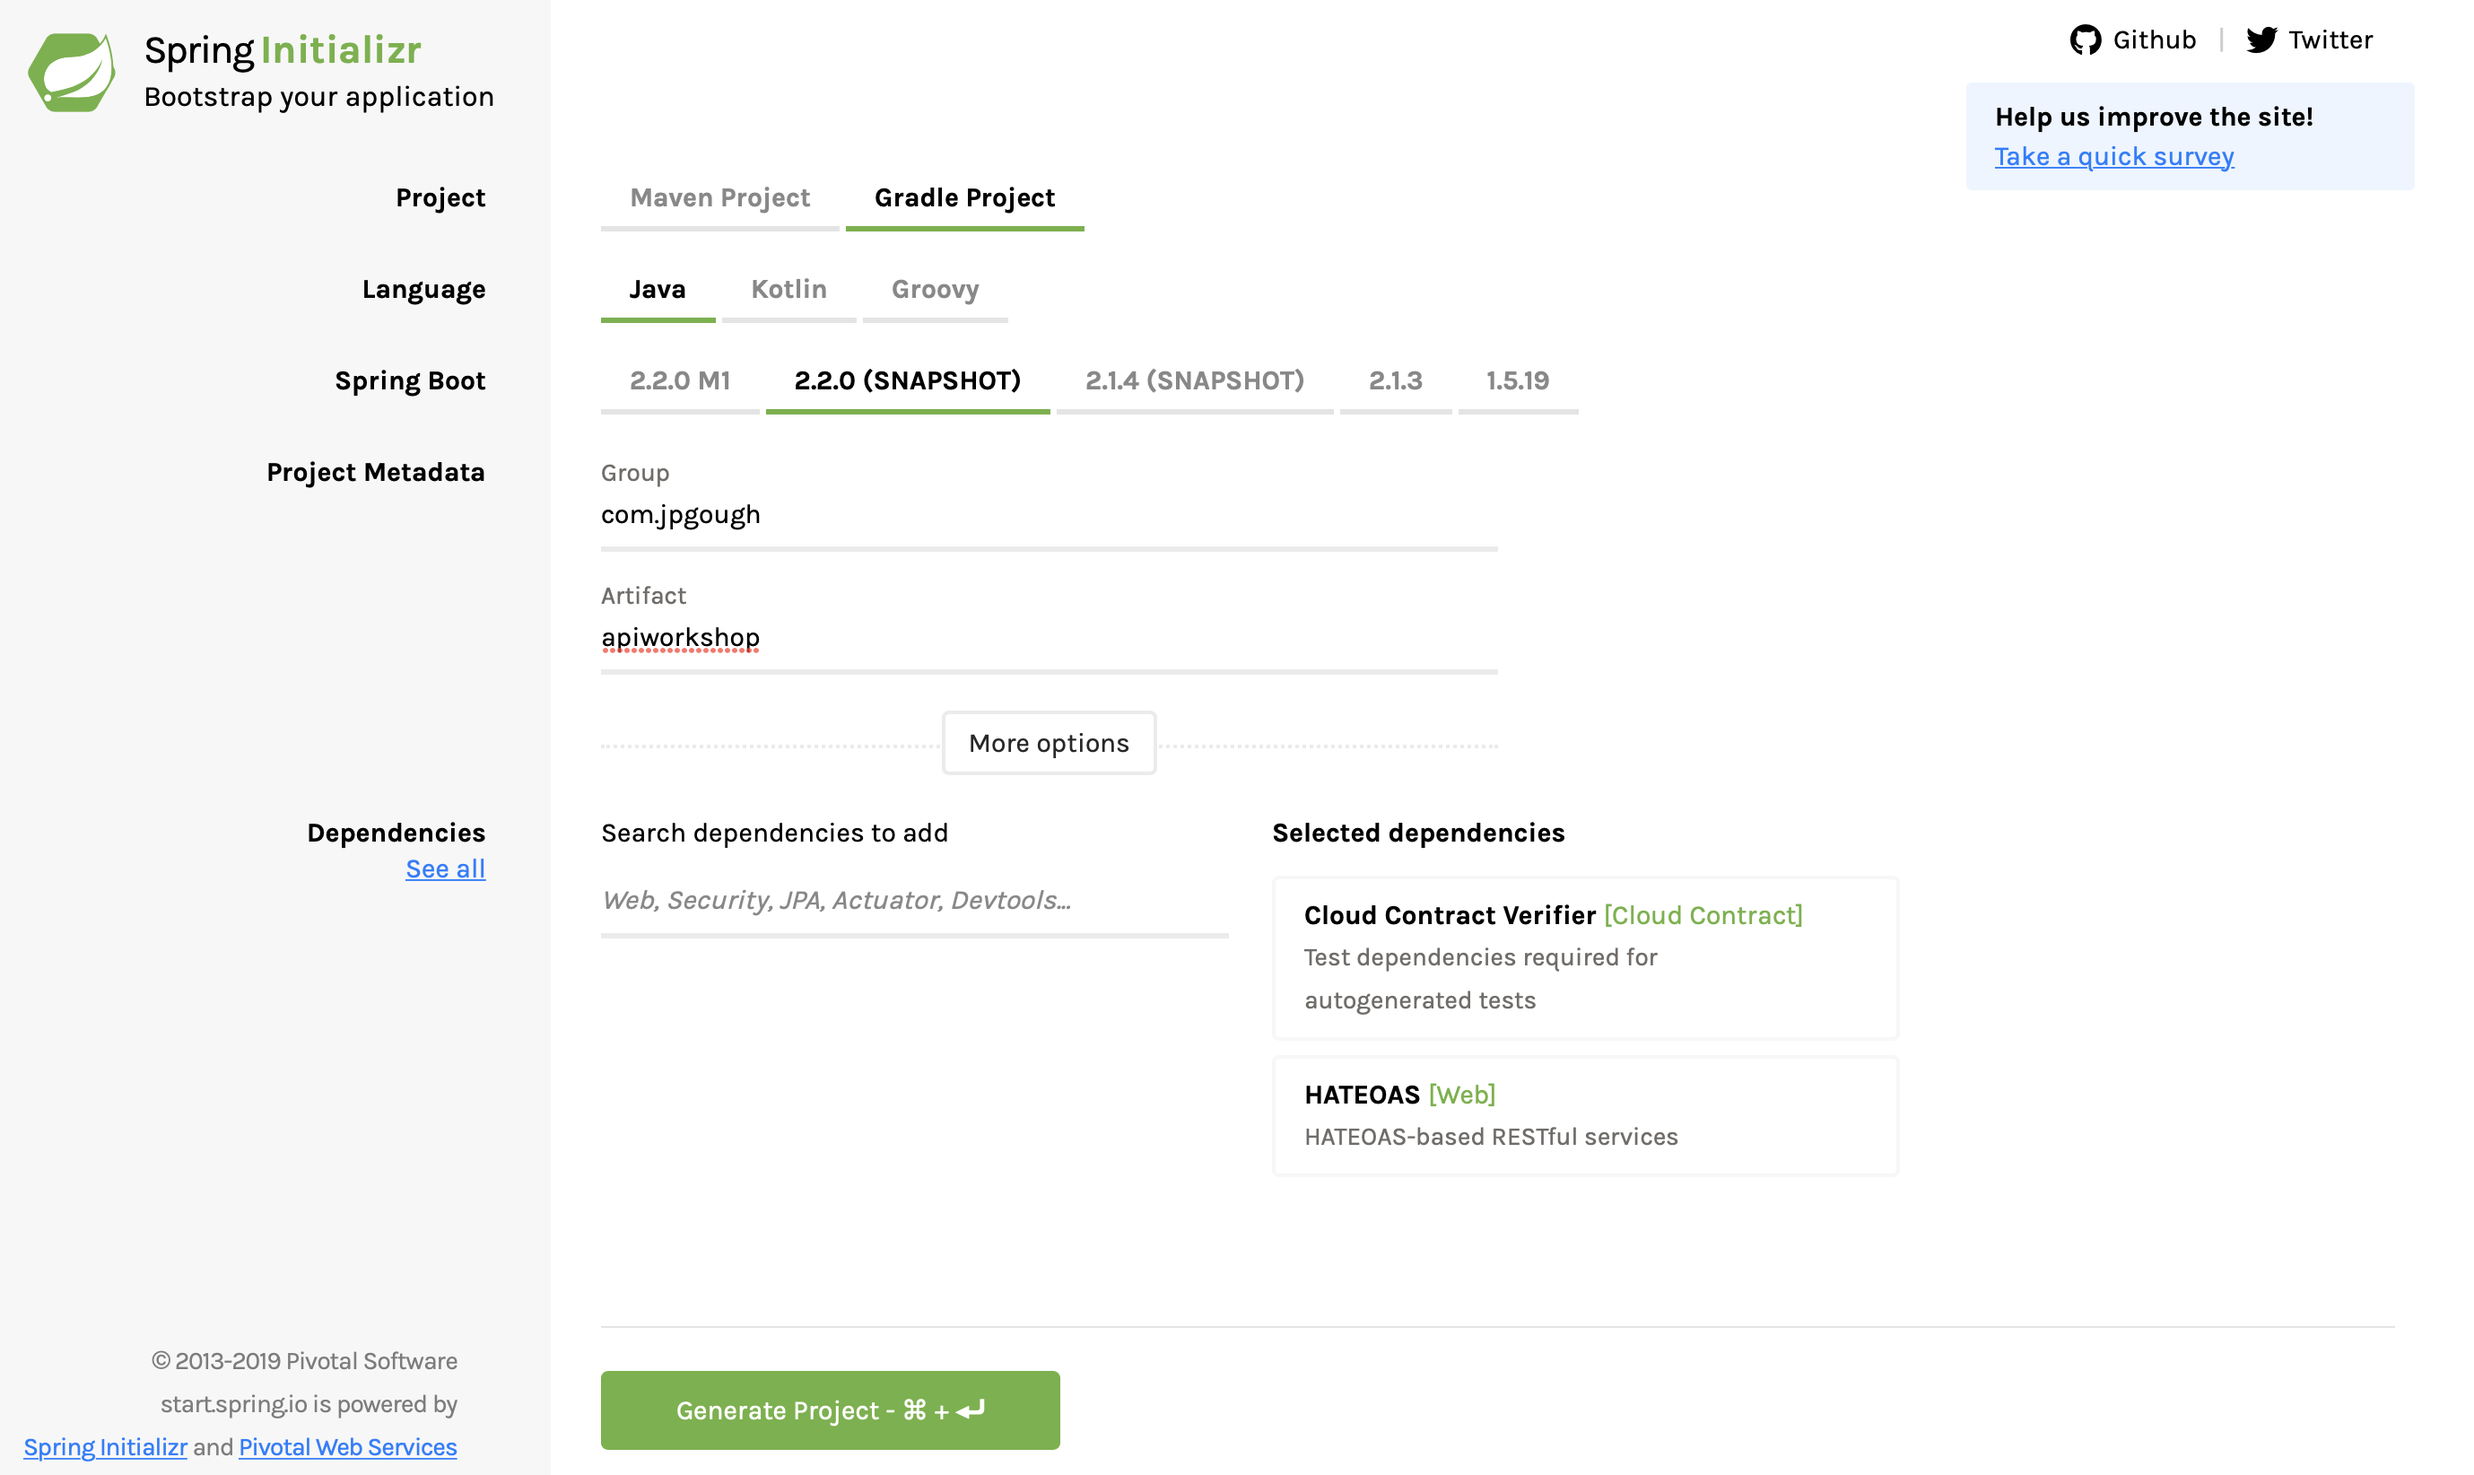
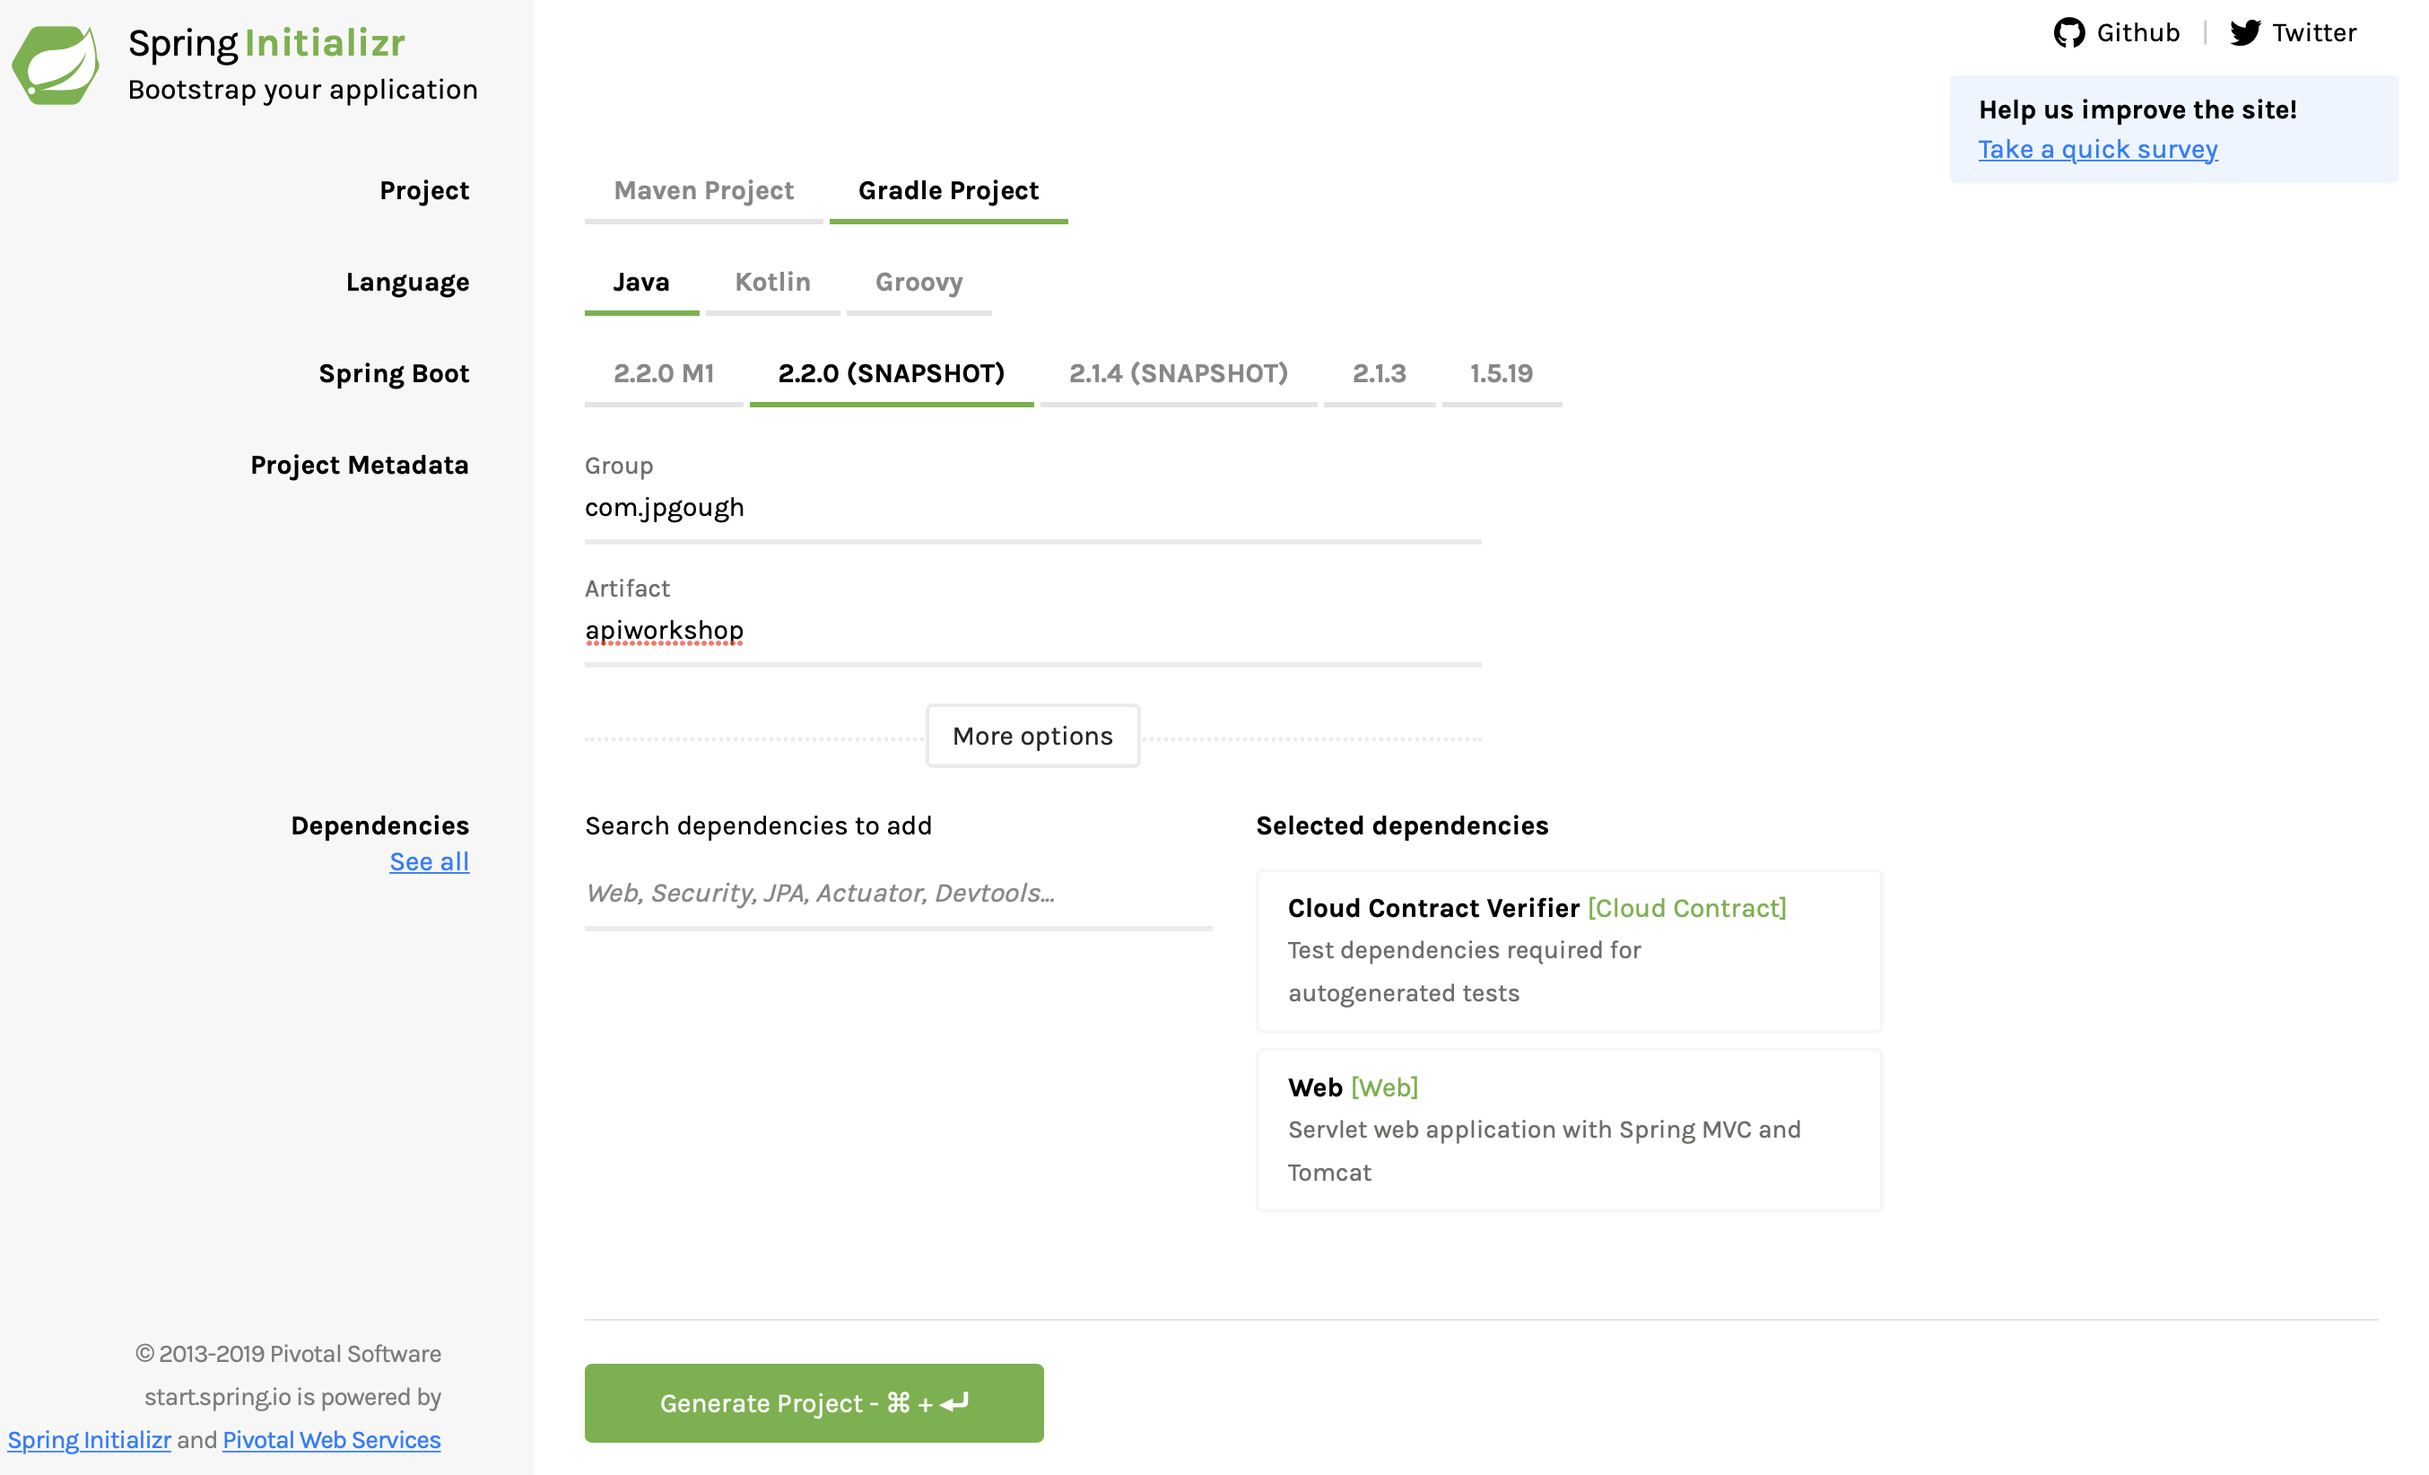
Adding lab 3, correct a few dependencies in previous labs

diff --git a/03-open-api/README.md b/03-open-api/README.md
@@ -1,0 +1,109 @@
+# Lab 3 OpenAPI
+
+In lab 2 we started to add tests around the usage of our API to validate the shape and structure of our API.
+During testing we may have realised we forgot a few edge cases and quickly corrected those.
+
+In lab 3 we will now look at the OpenAPI specification of our API.
+
+### Step 1 Adding Swagger to our Project
+
+[Swagger](https://swagger.io/about/) is the reference implementation where the [OpenAPI Specification](https://www.openapis.org) was founded and subsequently donated to the Linux foundation. 
+For working with Swagger there is a nice integration project with Spring Boot called [SpringFox](https://github.com/springfox/springfox).
+
+Adding [SpringFox](https://github.com/springfox/springfox) to our project is quite straightforward, we need to add a new dependency to our `build.gradle`
+
+```groovy
+compile("org.springframework.plugin:spring-plugin-core:1.2.0.RELEASE")
+compile("io.springfox:springfox-swagger2:2.9.2")
+compile("io.springfox:springfox-swagger-ui:2.9.2")
+
+```
+
+> Note the need to baseline the `spring-plugin-core` this is due to Spring upgrading and will SpringFox being slightly behind.
+This should be resolved in the next release. 
+
+The final step is to annotate the `Application.java` class to have the `@EnableSwagger2` annotation on. 
+
+```java
+import springfox.documentation.swagger2.annotations.EnableSwagger2;
+
+@SpringBootApplication
+@EnableSwagger2
+public class ApiworkshopApplication {
+    //...
+}
+```
+
+### Step 2 Looking at Swagger
+
+On restarting our application we will now have some new endpoints. 
+The first represents the swagger specification of our application.
+
+[http://localhost:8080/v2/api-docs](http://localhost:8080/v2/api-docs)
+
+![API Docs](03A-api-docs.png)
+
+The second represents the Swagger UI, which we can now use to invoke and explore our API. 
+Note how we have every method on `/hello` as we didn't specify the request method before. 
+
+![Swagger UI](03B-swagger.png)
+
+The `basic-error-controller` is some noise from Spring and we can reduce that noise by adding the following configuration bean.
+
+```java
+@Bean
+public Docket api() {
+    return new Docket(DocumentationType.SWAGGER_2)
+            .select()
+            .apis(RequestHandlerSelectors.any())
+            .apis(Predicates.not(RequestHandlerSelectors.basePackage("org.springframework.boot")))
+            .apis(Predicates.not(RequestHandlerSelectors.basePackage("org.springframework.cloud")))
+            .apis(Predicates.not(RequestHandlerSelectors.basePackage("org.springframework.data.rest.webmvc")))
+            .paths(PathSelectors.any())
+            .build();
+}
+```
+
+This bean can be added to a separate Spring Configuration class or into the `Application.java` file with an `@Configuration` annotation.
+If we also specify `/hello` as a get we will see our specification looks a lot tidier. 
+
+![Tidy Swagger UI](03C-tidy-swagger.png)
+
+### Step 3 More tidying
+
+There are some other annotations that can be used to add further documentation to our code.
+
+`@Api` - can sit at the top of the controller to give more information on the overall controller.  
+`@ApiOperation` - can be used on the methods to provide more documentation
+
+Experiment with those two annotations and see if you can produce a page that looks like the following.
+
+![More Documentation](03D-more-docs.png)
+
+### Step 4 Generate a Client
+
+The advantage of having the swagger specification available is generating client code to call our API is now quite easy.
+[http://localhost:8080/v2/api-docs](http://localhost:8080/v2/api-docs) represents our current API specification.
+ 
+First, get hold of [Swagger Codegen](https://github.com/swagger-api/swagger-codegen)
+
+```
+wget http://central.maven.org/maven2/io/swagger/swagger-codegen-cli/2.3.1/swagger-codegen-cli-2.3.1.jar -O swagger-codegen-cli.jar   
+java -jar swagger-codegen-cli.jar help
+```
+On a mac you can also run `brew install swagger-codegen`
+
+```
+java -jar swagger-codegen-cli.jar generate \
+  -i http://localhost:8080/v2/api-docs\
+  -l java \
+  -o com/jpgough/workshop/java
+```
+
+This will generate a Java client that you can now experiment with calling your API.
+
+There are many generators that are available, though you have to be careful that if you use one you do check the code generated.
+This kind of generation has the possibility to inject malicious code. 
+The are also some generators that build nicer Spring Boot projects [here](https://www.baeldung.com/spring-boot-rest-client-swagger-codegen).
+
+Build a small Java command line app that operates with your Task API. 

diff --git a/02-contracts/README.md b/02-contracts/README.md
@@ -1,8 +1,9 @@
-# Lab 2
+# Lab 2 Contracts
 
 In lab 1 we created an API for tracking a todo list. 
 One thing you may have felt whilst writing the code was the requirement to do manual testing.
 In this lab we will explore writing Contract Driven Tests for our todo list application.
+In an ideal world we would begin with the tests before writing the API code. 
 
 #### Lab 1 Recap
 
@@ -184,3 +185,5 @@ The scenarios we can now test include
 * Getting tasks includes task 1
 * Retrieval of task 1 succeeds with the description and a 200
 * Task 1 can be removed successfully 
+
+It is also possible to have multiple tests executed together in scenarios using Spring Cloud Contract. 

diff --git a/01-spring-boot/README.md b/01-spring-boot/README.md
@@ -1,4 +1,4 @@
-# Lab 1
+# Lab 1 Spring Boot
 
 We are going to create a project using Spring Boot. Take a moment to think about how you have created projects in the past....
 
@@ -16,7 +16,7 @@ Our workshop starts with a empty folder. We are going to use [SpringInitalizr](h
 * Create some project metadata that makes sense
 * Add in the required dependencies, to get us started we will add
    * Cloud Contract Verifier (which we will use in Lab 2)
-   * HATEOAS support (which we will talk about)
+   * The Web dependency, which is required for tomcat to be embedded
 
 ![Spring Initializr](01A-initializr-config.png)
 
